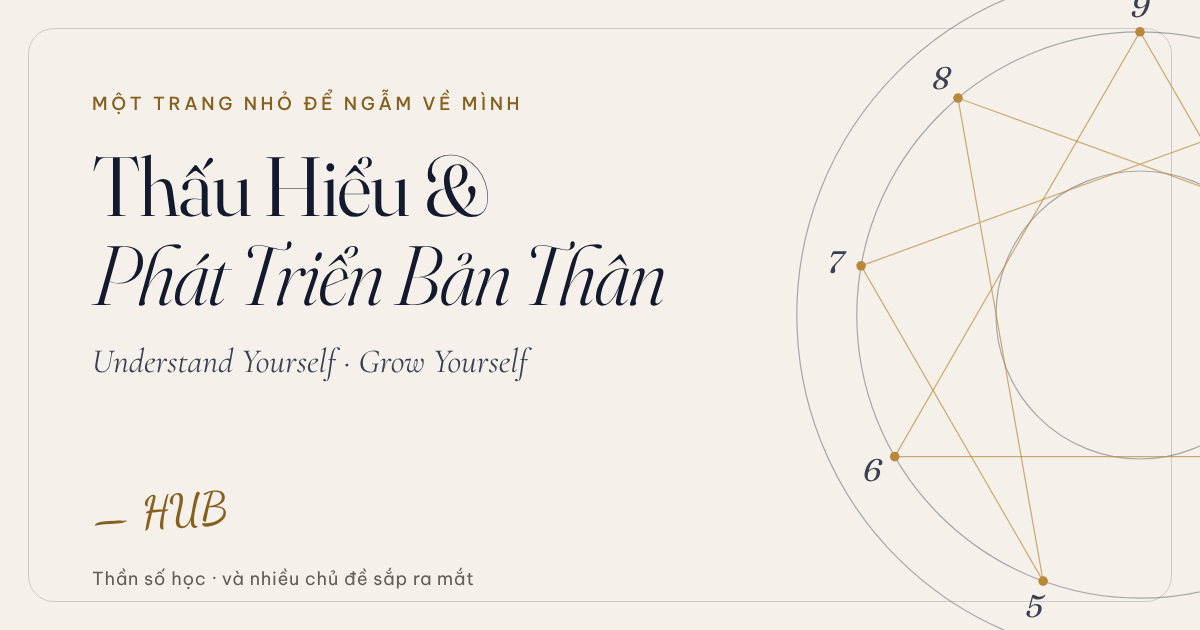
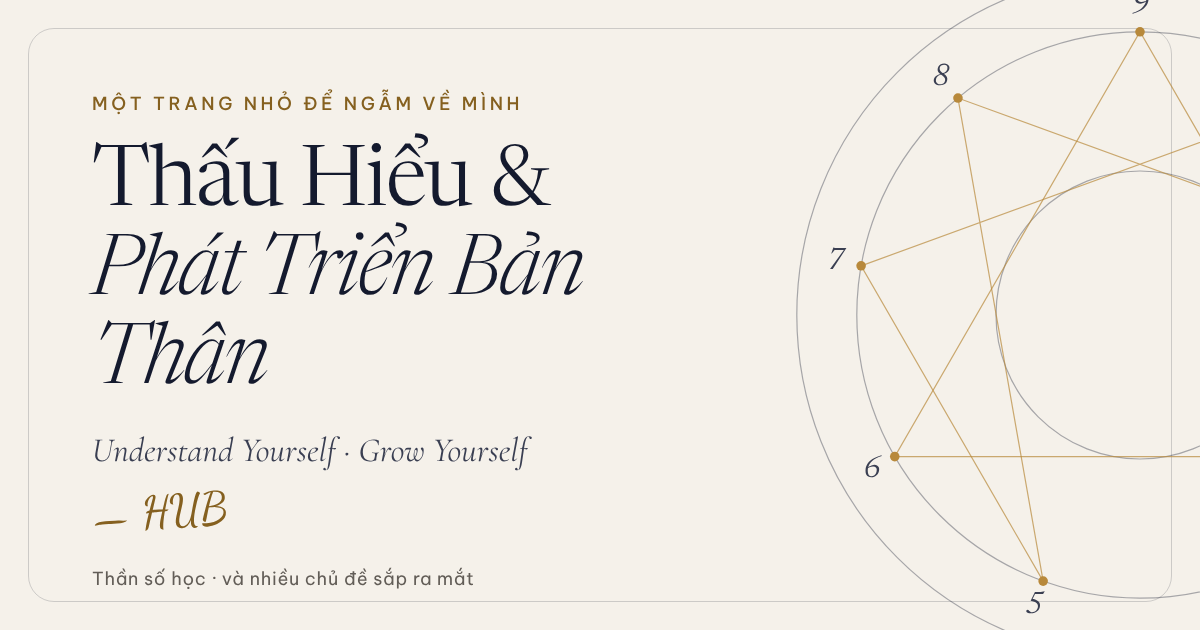
Đổi font tiêu đề từ Fraunces sang Newsreader
Fraunces có nét ngang rất mảnh, một số máy Android không vẽ ra (vd gạch giữa chữ H).
Newsreader cùng phong cách tạp chí, nét chắc hơn ở cỡ chữ điện thoại và đặt dấu tiếng Việt chuẩn.
Cập nhật cả 404, ảnh og-image và README.

Claude-Session: https://claude.ai/code/session_01QDFrxe1CP8eGgVkui7CQah

diff --git a/tools/og-template.html b/tools/og-template.html
@@ -3,7 +3,7 @@
 <head>
   <meta charset="utf-8">
   <title>og-image</title>
-  <link rel="stylesheet" href="https://fonts.googleapis.com/css2?family=Be+Vietnam+Pro:wght@400;500&family=Cormorant+Garamond:ital@1&family=Fraunces:ital,opsz,wght@0,9..144,300..500;1,9..144,300..400&display=swap">
+  <link rel="stylesheet" href="https://fonts.googleapis.com/css2?family=Be+Vietnam+Pro:wght@400;500&family=Cormorant+Garamond:ital@1&family=Newsreader:ital,opsz,wght@0,6..72,300..600;1,6..72,300..500&display=swap">
   <link rel="stylesheet" href="https://fonts.googleapis.com/css2?family=Dancing+Script:wght@500&display=swap&text=%E2%80%94%20HUB">
   <style>
     * { box-sizing: border-box; margin: 0; }
@@ -14,10 +14,10 @@
     .ring line, .ring circle.l, .ring path { fill: none; stroke: #141A2E; stroke-width: 1; opacity: .35; }
     .ring path.star { stroke: #B8893B; opacity: .7; }
     .ring circle.d { fill: #B8893B; }
-    .ring text { font-family: 'Fraunces', serif; font-style: italic; font-size: 26px; fill: #3A3F52; }
+    .ring text { font-family: 'Newsreader', serif; font-style: italic; font-size: 26px; fill: #3A3F52; }
     .copy { position: absolute; left: 92px; top: 92px; width: 640px; }
     .eyebrow { font-size: 18px; font-weight: 500; letter-spacing: .2em; text-transform: uppercase; color: #85601F; }
-    h1 { margin-top: 26px; font-family: 'Fraunces', serif; font-weight: 340; font-variation-settings: 'opsz' 144; font-size: 84px; line-height: 1.06; letter-spacing: -.02em; }
+    h1 { margin-top: 26px; font-family: 'Newsreader', serif; font-weight: 340; font-size: 84px; line-height: 1.06; letter-spacing: -.02em; }
     h1 em { font-weight: 300; }
     .en { margin-top: 22px; font-family: 'Cormorant Garamond', serif; font-style: italic; font-size: 34px; color: #3A3F52; }
     .sig { position: absolute; left: 92px; bottom: 92px; font-family: 'Dancing Script', cursive; font-size: 44px; color: #85601F; transform: rotate(-4deg); }

diff --git a/404.html b/404.html
@@ -29,7 +29,7 @@
   </script>
   <link rel="preconnect" href="https://fonts.googleapis.com">
   <link rel="preconnect" href="https://fonts.gstatic.com" crossorigin>
-  <link rel="stylesheet" href="https://fonts.googleapis.com/css2?family=Be+Vietnam+Pro:wght@400;500&family=Fraunces:ital,opsz,wght@0,9..144,300..500;1,9..144,300..400&display=swap">
+  <link rel="stylesheet" href="https://fonts.googleapis.com/css2?family=Be+Vietnam+Pro:wght@400;500&family=Newsreader:ital,opsz,wght@0,6..72,300..600;1,6..72,300..500&display=swap">
   <style>
     :root {
       color-scheme: light;
@@ -64,7 +64,7 @@
     .sum {
       display: flex; flex-wrap: wrap; justify-content: center; align-items: baseline; gap: 0.08em 0.22em;
       margin: 0 0 24px;
-      font-family: 'Fraunces', Georgia, serif; font-weight: 300; font-variation-settings: 'opsz' 144;
+      font-family: 'Newsreader', Georgia, serif; font-weight: 300;
       font-size: clamp(3.4rem, 1.6rem + 9vw, 8rem); line-height: 1; letter-spacing: -0.03em;
     }
     .sum .op { color: var(--muted); font-size: 0.5em; font-weight: 300; }
@@ -72,7 +72,7 @@
     .sum .n0 { color: var(--n0); font-style: italic; }
     .sum .n8 { color: var(--n8); font-style: italic; }
     .eyebrow { margin: 0 0 8px; font-size: 0.8125rem; font-weight: 500; letter-spacing: 0.16em; text-transform: uppercase; color: var(--gold-ink); }
-    h1 { margin: 0 0 12px; font-family: 'Fraunces', Georgia, serif; font-weight: 400; font-size: clamp(1.6rem, 1.2rem + 2vw, 2.4rem); line-height: 1.2; }
+    h1 { margin: 0 0 12px; font-family: 'Newsreader', Georgia, serif; font-weight: 400; font-size: clamp(1.6rem, 1.2rem + 2vw, 2.4rem); line-height: 1.2; }
     p.lead { margin: 0 auto 28px; max-width: 34rem; color: var(--ink-2); }
     .btn {
       display: inline-flex; align-items: center; gap: 10px; min-height: 52px; padding: 0 26px;

diff --git a/index.html b/index.html
@@ -46,10 +46,10 @@
   <link rel="preconnect" href="https://fonts.gstatic.com" crossorigin>
   <link rel="preconnect" href="https://cdn.jsdelivr.net" crossorigin>
   <!-- Font tải không chặn render; chữ hiện bằng font hệ thống trước rồi đổi sang font web. -->
-  <link rel="preload" as="style" href="https://fonts.googleapis.com/css2?family=Be+Vietnam+Pro:wght@400;500;600&family=Cormorant+Garamond:ital@1&family=Fraunces:ital,opsz,wght@0,9..144,300..500;1,9..144,300..400&display=swap" onload="this.onload=null;this.rel='stylesheet'">
+  <link rel="preload" as="style" href="https://fonts.googleapis.com/css2?family=Be+Vietnam+Pro:wght@400;500;600&family=Cormorant+Garamond:ital@1&family=Newsreader:ital,opsz,wght@0,6..72,300..600;1,6..72,300..500&display=swap" onload="this.onload=null;this.rel='stylesheet'">
   <link rel="preload" as="style" href="https://fonts.googleapis.com/css2?family=Dancing+Script:wght@500&display=swap&text=%E2%80%94%20HUB" onload="this.onload=null;this.rel='stylesheet'">
   <noscript>
-    <link rel="stylesheet" href="https://fonts.googleapis.com/css2?family=Be+Vietnam+Pro:wght@400;500;600&family=Cormorant+Garamond:ital@1&family=Fraunces:ital,opsz,wght@0,9..144,300..500;1,9..144,300..400&display=swap">
+    <link rel="stylesheet" href="https://fonts.googleapis.com/css2?family=Be+Vietnam+Pro:wght@400;500;600&family=Cormorant+Garamond:ital@1&family=Newsreader:ital,opsz,wght@0,6..72,300..600;1,6..72,300..500&display=swap">
   </noscript>
 
   <link rel="stylesheet" href="assets/css/tokens.css">

diff --git a/assets/css/base.css b/assets/css/base.css
@@ -344,19 +344,11 @@ button {
 .hero__title {
   font-family: var(--f-display);
   font-size: var(--fs-hero);
-  font-weight: 360;
-  /* Optical size theo cỡ chữ thật. Ép 'opsz' 144 ở cỡ chữ nhỏ làm nét ngang (vd gạch giữa chữ H)
-     mảnh tới mức một số máy Android không vẽ ra. */
+  font-weight: 350;
   font-optical-sizing: auto;
   line-height: 1.06;
   letter-spacing: -0.02em;
   max-width: 13ch;
-}
-@media (min-width: 900px) {
-  .hero__title {
-    font-weight: 340;
-    font-variation-settings: 'opsz' 144;
-  }
 }
 .hero__title .line {
   display: block;

diff --git a/assets/css/modules/numerology.css b/assets/css/modules/numerology.css
@@ -23,11 +23,6 @@
   letter-spacing: -0.025em;
   padding-top: 0.1em;
 }
-@media (min-width: 900px) {
-  .nm-hero__title {
-    font-variation-settings: 'opsz' 144;
-  }
-}
 .nm-hero__lead {
   max-width: 40rem;
   font-size: var(--fs-md);
@@ -973,11 +968,10 @@
   font-family: var(--f-display);
   font-size: var(--fs-giant);
   font-weight: 300;
-  font-variation-settings: 'opsz' 144;
   line-height: 0.9;
   letter-spacing: -0.04em;
   color: var(--c, var(--muted));
-  margin: 0;
+  margin: 0.12em 0 0;
 }
 .msg__num small {
   font-size: 0.32em;

diff --git a/assets/css/tokens.css b/assets/css/tokens.css
@@ -44,9 +44,9 @@
   --grain-opacity: 0.05;
 
   /* Chữ */
-  --f-display: 'Fraunces', 'Noto Serif', Georgia, 'Times New Roman', serif;
+  --f-display: 'Newsreader', 'Noto Serif', Georgia, 'Times New Roman', serif;
   --f-body: 'Be Vietnam Pro', system-ui, -apple-system, 'Segoe UI', Roboto, Arial, sans-serif;
-  --f-en: 'Cormorant Garamond', 'Fraunces', Georgia, serif;
+  --f-en: 'Cormorant Garamond', 'Newsreader', Georgia, serif;
   --f-hand: 'Dancing Script', 'Segoe Script', cursive;
 
   --fs-xs: clamp(0.75rem, 0.72rem + 0.12vw, 0.8125rem);

diff --git a/README.md b/README.md
@@ -113,7 +113,7 @@ Router, overlay (Flip mở và đóng, vuốt xuống để đóng, nút Back, f
 - **Tiêu đề hero hiện ra theo dòng bằng CSS** ngay từ lần vẽ đầu, không phải chờ JS hay font. Nhờ vậy điểm Lighthouse cao. **GSAP SplitText** được dùng cho tiêu đề các phần khi cuộn tới; chuỗi được chuẩn hoá NFC và chỉ tách dòng sau khi font đã tải, mỗi dòng có chừa khoảng trống để dấu tiếng Việt không bị cắt.
 - **Không dùng Lenis.** Cuộn gốc của trình duyệt cần cho thao tác vuốt xuống để đóng overlay và cho trình đọc màn hình.
 - Thư viện qua CDN jsDelivr, cố định **GSAP 3.13.0** (gồm ScrollTrigger, Flip, SplitText, tất cả đều miễn phí từ bản này). Nếu CDN lỗi, trang vẫn chạy đủ chức năng, chỉ mất chuyển động.
-- Font: **Fraunces** (tiêu đề, chữ số lớn), **Be Vietnam Pro** (nội dung), **Cormorant Garamond** nghiêng (tên tiếng Anh), **Dancing Script** (chữ ký "— HUB", chỉ tải đúng 5 ký tự). Cả bốn đều có subset `vietnamese` và được tải không chặn render.
+- Font: **Newsreader** (tiêu đề, chữ số lớn), **Be Vietnam Pro** (nội dung), **Cormorant Garamond** nghiêng (tên tiếng Anh), **Dancing Script** (chữ ký "— HUB", chỉ tải đúng 5 ký tự). Cả bốn đều có subset `vietnamese` và được tải không chặn render.
 - **Trang kết quả trên mobile xếp dọc** thay vì carousel, vì đọc nội dung dài sẽ dễ hơn. Desktop dùng lưới so le hai cột.
 - "Đọc đầy đủ" mở rộng bằng **Flip + clip-path**: các thẻ xung quanh dịch chỗ bằng transform, không animate chiều cao.
 - **Con trỏ tuỳ biến** là một vòng mảnh đi kèm, vẫn giữ con trỏ gốc của hệ điều hành. Vòng này chỉ bật trên thiết bị có chuột.
